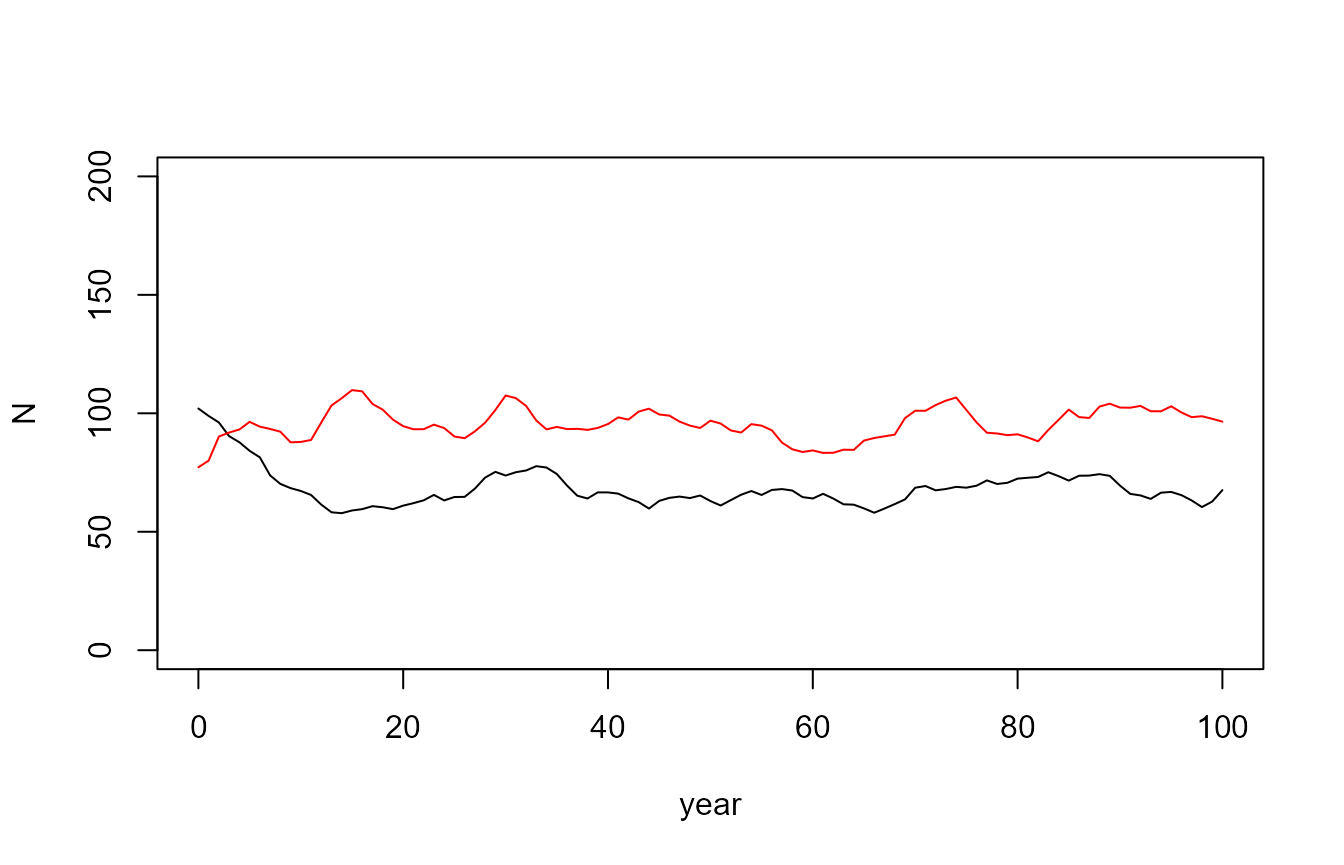
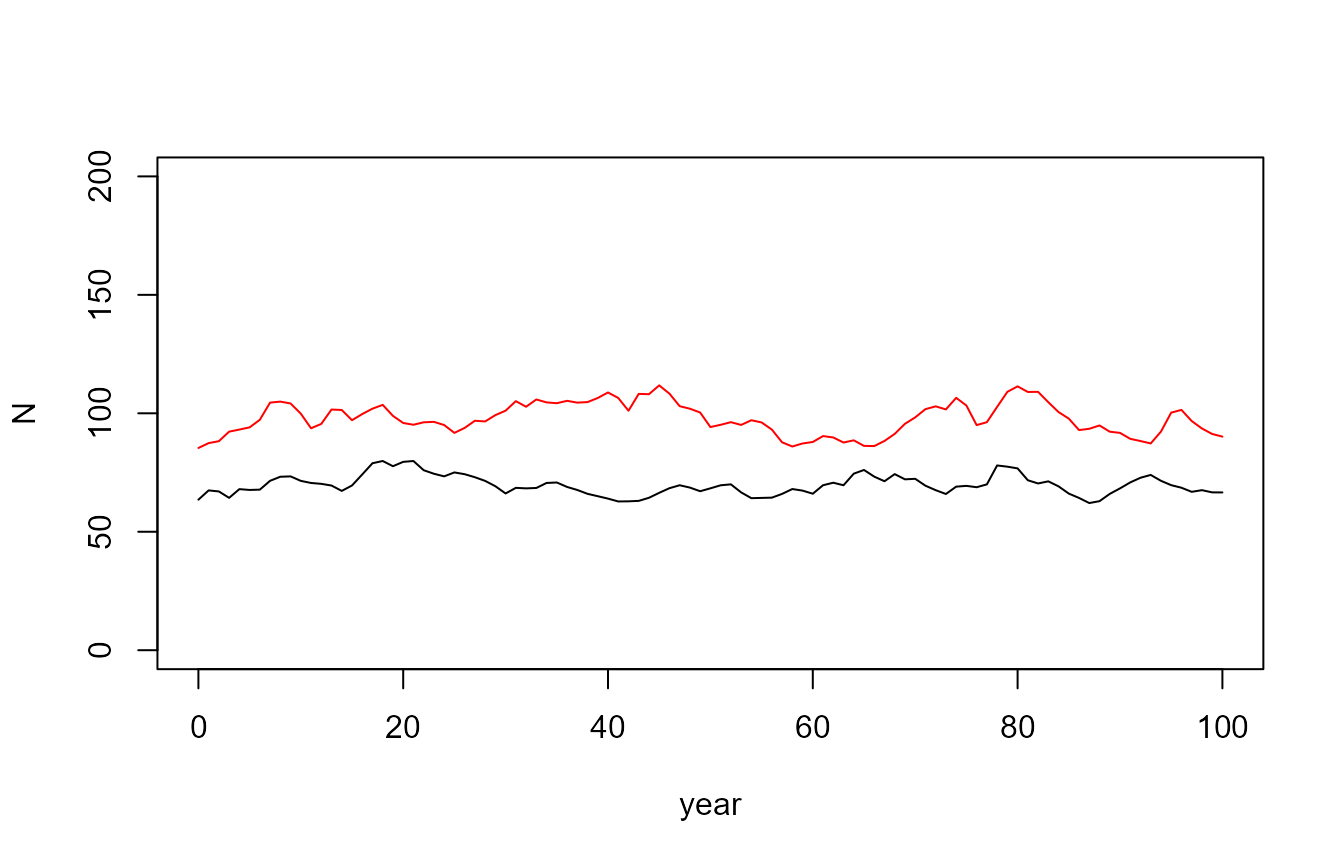
gh pgs working

diff --git a/docs/articles/population-model.html b/docs/articles/population-model.html
@@ -262,7 +262,7 @@
 <span class="va">baseline_sys_cap</span> <span class="op">&lt;-</span> <span class="fu">stats</span><span class="fu">::</span><span class="fu"><a href="https://rdrr.io/r/stats/median.html" class="external-link">median</a></span><span class="op">(</span><span class="va">baseline</span><span class="op">$</span><span class="va">pop</span><span class="op">$</span><span class="va">N</span><span class="op">[</span><span class="fl">50</span><span class="op">:</span><span class="fl">100</span><span class="op">]</span><span class="op">)</span>
 <span class="va">ce_sys_cap</span> <span class="op">&lt;-</span> <span class="fu">stats</span><span class="fu">::</span><span class="fu"><a href="https://rdrr.io/r/stats/median.html" class="external-link">median</a></span><span class="op">(</span><span class="va">ce_pop</span><span class="op">$</span><span class="va">pop</span><span class="op">$</span><span class="va">N</span><span class="op">[</span><span class="fl">50</span><span class="op">:</span><span class="fl">100</span><span class="op">]</span><span class="op">)</span>
 <span class="va">ce_sys_cap</span> <span class="op">/</span> <span class="va">baseline_sys_cap</span>
-<span class="co">#&gt; [1] 0.6983389</span></code></pre></div>
+<span class="co">#&gt; [1] 0.7301784</span></code></pre></div>
 </div>
 
   </main><aside class="col-md-3"><nav id="toc"><h2>On this page</h2>

diff --git a/docs/index.html b/docs/index.html
@@ -103,7 +103,7 @@
 <div class="section level2">
 <h2 id="usage">Usage<a class="anchor" aria-label="anchor" href="#usage"></a>
 </h2>
-<p>There are several vignettes available that provide detailed guidance for <code>JoeModelCE</code> usage and common workflows: - [placeholder for links to vignette].</p>
+<p>There are several vignettes available that provide detailed guidance for <code>JoeModelCE</code> usage and common workflows. See articles availabe on the main <a href="https://essatech.github.io/JoeModelCE/index.html" class="external-link">JoeModelCE project page</a>. - [placeholder for links to vignette].</p>
 </div>
 <div class="section level2">
 <h2 id="code-of-conduct">Code of Conduct<a class="anchor" aria-label="anchor" href="#code-of-conduct"></a>

diff --git a/README.md b/README.md
@@ -36,7 +36,7 @@ remotes::install_github("mattjbayly/JoeModelCE")
 ```
 
 ## Usage
-There are several vignettes available that provide detailed guidance for `JoeModelCE` usage and common workflows:
+There are several vignettes available that provide detailed guidance for `JoeModelCE` usage and common workflows. See articles availabe on the main [JoeModelCE project page](https://essatech.github.io/JoeModelCE/index.html).
 -   [placeholder for links to vignette].
 
 ## Code of Conduct
